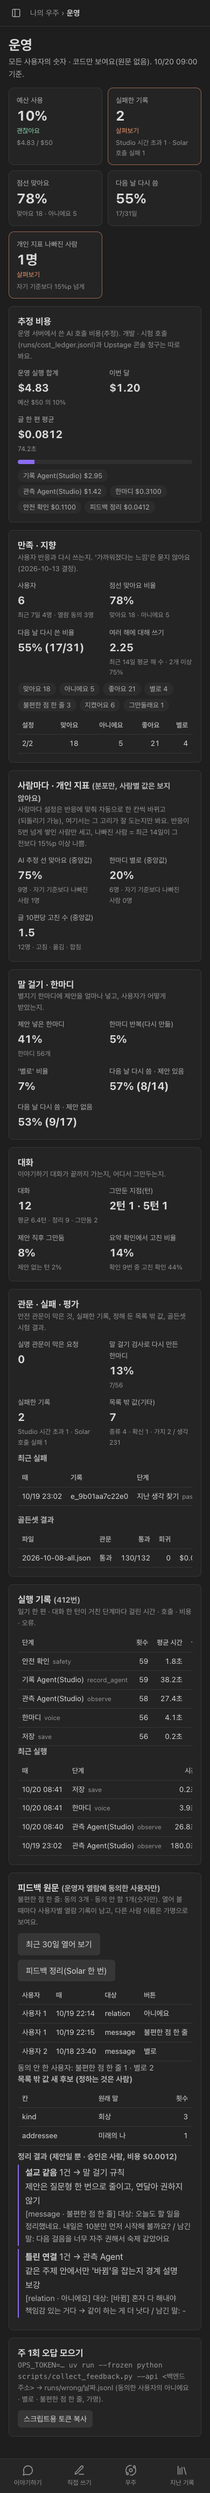
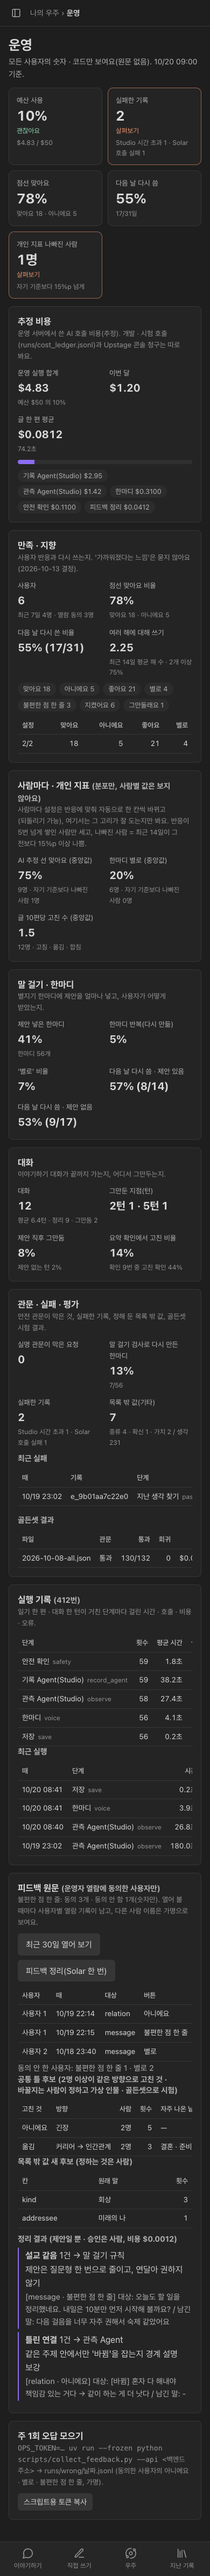
개인 맞춤 Ops ⑤ 공통 틀 후보: 운영자 열람에 동의한 사용자 중 2명 이상이 같은 방향으로 고친 것(해 옮김 · 종류 고침 · 아니에요 종류 · 떼어 냄)을 /ops/feedback 과 운영 화면 '공통 틀 후보' 표로(주제 낱말도 2명 이상 쓴 것만, 가명 처리). 바꿀지는 사람이 정하고 가상 인물 · 골든셋으로 시험

diff --git a/infra/frontend/app/ops/page.tsx b/infra/frontend/app/ops/page.tsx
@@ -236,6 +236,9 @@ function FeedbackPanel({ counts }: { counts: OpsSummary["feedback_text"] }) {
           <Table label="피드백" head={["사용자", "때", "대상", "버튼", "남긴 말", "대상 문장", "설정"]}
             rows={fb.items.map((x) => [x.user, when(x.at), x.target, x.value, x.text ?? "", x.target_text ?? "", x.config ?? ""])} />
           <p className="sub" style={{ margin: 0 }}>동의 안 한 사용자: {Object.entries(fb.not_consented).map(([k, v]) => `${k} ${v}`).join(" · ") || "없음"}</p>
+          <h3>공통 틀 후보 <span className="sub">(2명 이상이 같은 방향으로 고친 것 · 바꿀지는 사람이 정하고 가상 인물 · 골든셋으로 시험)</span></h3>
+          <Table label="공통 틀 후보" head={["고친 것", "방향", "사람", "횟수", "자주 나온 낱말"]} num={[2, 3]}
+            rows={(fb.framework_candidates ?? []).map((x) => [x.kind, x.what, `${x.users}명`, x.count, x.words.join(" · ") || "—"])} />
           <h3>목록 밖 값 새 후보 <span className="sub">(정하는 것은 사람)</span></h3>
           <Table label="새 값 후보" head={["칸", "원래 말", "횟수"]} num={[2]} rows={fb.other_candidates.map((x) => [x.field, x.original, x.count])} />
         </div>

diff --git a/infra/frontend/lib/api.ts b/infra/frontend/lib/api.ts
@@ -486,7 +486,9 @@ export type OpsSummary = {
 };
 export type OpsFeedback = { days: number; wrong: boolean; users: number;
   items: { user: string; at: string; target: string; value: string; text: string | null; target_text: string | null; config: string | null }[];
-  other_candidates: { field: string; original: string; count: number }[]; not_consented: Record<string, number> };
+  other_candidates: { field: string; original: string; count: number }[]; not_consented: Record<string, number>;
+  // 공통 틀 후보(개인 맞춤 Ops ⑤): 동의한 사용자 중 2명 이상이 같은 방향으로 고친 것만
+  framework_candidates?: { kind: string; what: string; users: number; count: number; words: string[] }[] };
 export type OpsDigest = { days: number; users: number; lines: string[]; est_usd: number;
   groups: { reason: string; items: number[]; count: number; fix_where: string; suggestion: string }[] };
 export type PrefSuggestion = { setting: "cross_links" | "suggestions"; from: string; to: string; reason: string };

diff --git a/infra/frontend/e2e/ops.spec.ts b/infra/frontend/e2e/ops.spec.ts
@@ -26,6 +26,7 @@ test("운영 화면", async ({ page }, info) => {
 
   await page.getByRole("button", { name: "최근 30일 열어 보기" }).click();
   await expect(page.getByRole("table", { name: "피드백" })).toContainText("사용자 1");
+  await expect(page.getByRole("table", { name: "공통 틀 후보" })).toContainText("커리어 → 인간관계");   // ⑤: 여러 사람의 같은 고침
   await page.getByRole("button", { name: /피드백 정리/ }).click();
   await expect(page.getByLabel("피드백 정리 결과")).toContainText("설교 같음");
   await page.getByLabel("피드백 정리 결과").scrollIntoViewIfNeeded();

diff --git a/infra/frontend/lib/mock-ops.ts b/infra/frontend/lib/mock-ops.ts
@@ -56,6 +56,10 @@ export const feedback: OpsFeedback = {
   ],
   other_candidates: [{ field: "kind", original: "회상", count: 3 }, { field: "addressee", original: "미래의 나", count: 1 }],
   not_consented: { "불편한 점 한 줄": 1, "별로": 2 },
+  framework_candidates: [
+    { kind: "아니에요", what: "긴장", users: 2, count: 5, words: [] },
+    { kind: "옮김", what: "커리어 → 인간관계", users: 2, count: 3, words: ["결혼", "준비"] },
+  ],
 };
 
 export const digest: OpsDigest = {

diff --git a/app/repository/ops.py b/app/repository/ops.py
@@ -399,6 +399,47 @@ def user_feedback(s, since, wrong_only=False):
     return items, cands
 
 
+LESSONS = ("옮김", "고침", "합침", "떼어 냄", "아니에요")
+
+
+def user_lessons(s, since):
+    """동의한 사용자 한 명이 AI 정리를 고친 것(since 뒤) → [{kind, from, to, topic, type}] (개인 맞춤 Ops ⑤의 재료, 가명 처리 전)."""
+    out = []
+    for f in s.rows("feedback", order="created_at"):
+        if f["created_at"] < since or f["value"] not in LESSONS or not f.get("enc"):
+            continue
+        e = diary.unseal(s, "feedback", f["id"], f["enc"]) or {}
+        if f["value"] == "아니에요":
+            if (e.get("relation") or {}).get("type"):
+                out.append({"kind": "아니에요", "type": e["relation"]["type"]})
+        elif f["value"] == "고침":
+            out.append({"kind": "고침", "field": e.get("field"), "from": e.get("from"), "to": e.get("to")})
+        else:
+            out.append({"kind": f["value"], "from": e.get("from"), "to": e.get("to") or e.get("into"), "topic": e.get("topic") or e.get("from")})
+    return out
+
+
+def framework_candidates(per_user, min_users=2):
+    """공통 틀 후보(개인 맞춤 Ops ⑤, 2026-10-30): 여러 사람이 같은 방향으로 고친 것만 모은다(min_users 명 이상 — 한 사람의 버릇이나
+    이름이 운영자에게 드러나지 않게). per_user: [[lesson, ...], ...](사용자마다, 주제 이름은 가명 처리된 것).
+    → [{kind, what, users, count, words}] (사람 수 · 횟수 많은 순). 옮김의 words 는 min_users 명 이상이 쓴 주제 낱말만."""
+    agg = {}
+    for i, lessons in enumerate(per_user):
+        for x in lessons:
+            what = {"옮김": lambda: f"{x.get('from')} → {x.get('to')}", "고침": lambda: f"{x.get('field')}: {x.get('from')} → {x.get('to')}",
+                    "아니에요": lambda: str(x.get("type")), "떼어 냄": lambda: "묶음에서 떼어 냄", "합침": lambda: "작은 별 합침"}[x["kind"]]()
+            a = agg.setdefault((x["kind"], what), {"users": set(), "count": 0, "words": defaultdict(set)})
+            a["users"].add(i)
+            a["count"] += 1
+            if x["kind"] == "옮김":
+                for w in (x.get("topic") or "").split():
+                    a["words"][w].add(i)
+    out = [{"kind": k, "what": w, "users": len(a["users"]), "count": a["count"],
+            "words": sorted((t for t, us in a["words"].items() if len(us) >= min_users), key=lambda t: -len(a["words"][t]))[:5]}
+           for (k, w), a in agg.items() if len(a["users"]) >= min_users]
+    return sorted(out, key=lambda c: (-c["users"], -c["count"], c["kind"], c["what"]))
+
+
 ##################################################
 # 선호 맞추기 제안(사용자 자기 피드백, PRD §8.0 선호 · §8.7 바로 반영)
 ##################################################

diff --git a/app/api/ops.py b/app/api/ops.py
@@ -59,8 +59,9 @@ def _consented(repo, r, days, wrong):
             if not consent.operator_read(s):   # 그 사용자 세션으로 한 번 더(판 · 선택 동의)
                 continue
             items, cands = ops.user_feedback(s, since, wrong)
+            lessons = ops.user_lessons(s, since)
             people = diary.people(s)
-        if not items and not cands:
+        if not items and not cands and not lessons:
             continue
         texts = [x[k] or "" for x in items for k in ("text", "target_text")] + [c["original"] for c in cands]
         masked = iter(tools.mask_obj(texts, people)[0])
@@ -69,7 +70,11 @@ def _consented(repo, r, days, wrong):
                 x[k] = next(masked) or None
         for c in cands:
             c["original"] = next(masked)
-        out.append({"uid": uid, "alias": f"사용자 {i}", "people": people, "items": items, "cands": cands})
+        if lessons:   # 주제 이름도 가명으로
+            topics = iter(tools.mask_obj([x.get("topic") or "-" for x in lessons], people)[0])
+            for x in lessons:
+                x["topic"] = next(topics)
+        out.append({"uid": uid, "alias": f"사용자 {i}", "people": people, "items": items, "cands": cands, "lessons": lessons})
     return out
 
 
@@ -93,7 +98,9 @@ def ops_feedback(days: int = Days, wrong: bool = False, admin=Depends(get_admin)
             "items": [{"user": u["alias"], **x} for u in users for x in u["items"]],
             "other_candidates": [{"field": f, "original": w, "count": n}
                                  for (f, w), n in sorted(cands.items(), key=lambda x: (-x[1], x[0]))],
-            "not_consented": dict(rest.most_common())}
+            "not_consented": dict(rest.most_common()),
+            # 공통 틀 후보(개인 맞춤 Ops ⑤): 동의한 사용자 중 2명 이상이 같은 방향으로 고친 것만
+            "framework_candidates": ops.framework_candidates([u["lessons"] for u in users])}
 
 
 SUMMARIZE = """너는 일기장 '나의 우주'의 피드백 정리 도우미다. 사용자들이 남긴 피드백(사람 이름은 가명)을 이유별로 묶는다.

diff --git a/tests/test_personal_ops.py b/tests/test_personal_ops.py
@@ -70,3 +70,16 @@ def test_rejected_links_and_observe_hint(env):
     html, ids = sf.observe_html("2026-10-02", [], [], None, [{"type": "긴장", "quotes": ["그때 문장", "지금 문장"]}])
     assert "이 사람이 아니라고 한 연결(일기 내용 아님)" in html and "[긴장] “그때 문장” → “지금 문장”" in html and ids == {}
     assert "아니라고 한 연결" not in sf.observe_html("2026-10-02", [], [], None)[0]
+
+
+def test_framework_candidates_only_when_several_people_fix_the_same_way():
+    """⑤ 공통 틀 후보: 두 사람 이상이 같은 방향으로 고친 것만, 옮김의 낱말도 두 사람 이상이 쓴 것만(한 사람의 이름 · 버릇은 안 보임)."""
+    u1 = [{"kind": "옮김", "from": "커리어", "to": "인간관계", "topic": "결혼 준비 일정"}, {"kind": "아니에요", "type": "긴장"},
+          {"kind": "고침", "field": "kind", "from": "다짐", "to": "해석"}]
+    u2 = [{"kind": "옮김", "from": "커리어", "to": "인간관계", "topic": "결혼 준비 다툼"}, {"kind": "아니에요", "type": "긴장"},
+          {"kind": "아니에요", "type": "긴장"}, {"kind": "옮김", "from": "인간관계", "to": "커리어", "topic": "도현 회사"}]
+    got = ops.framework_candidates([u1, u2])
+    assert got[0] == {"kind": "아니에요", "what": "긴장", "users": 2, "count": 3, "words": []}
+    move = next(c for c in got if c["kind"] == "옮김")
+    assert move["what"] == "커리어 → 인간관계" and move["users"] == 2 and move["words"] == ["결혼", "준비"]
+    assert not any(c["kind"] == "고침" or "도현" in c["what"] for c in got)   # 한 사람만 한 것은 안 나옴
